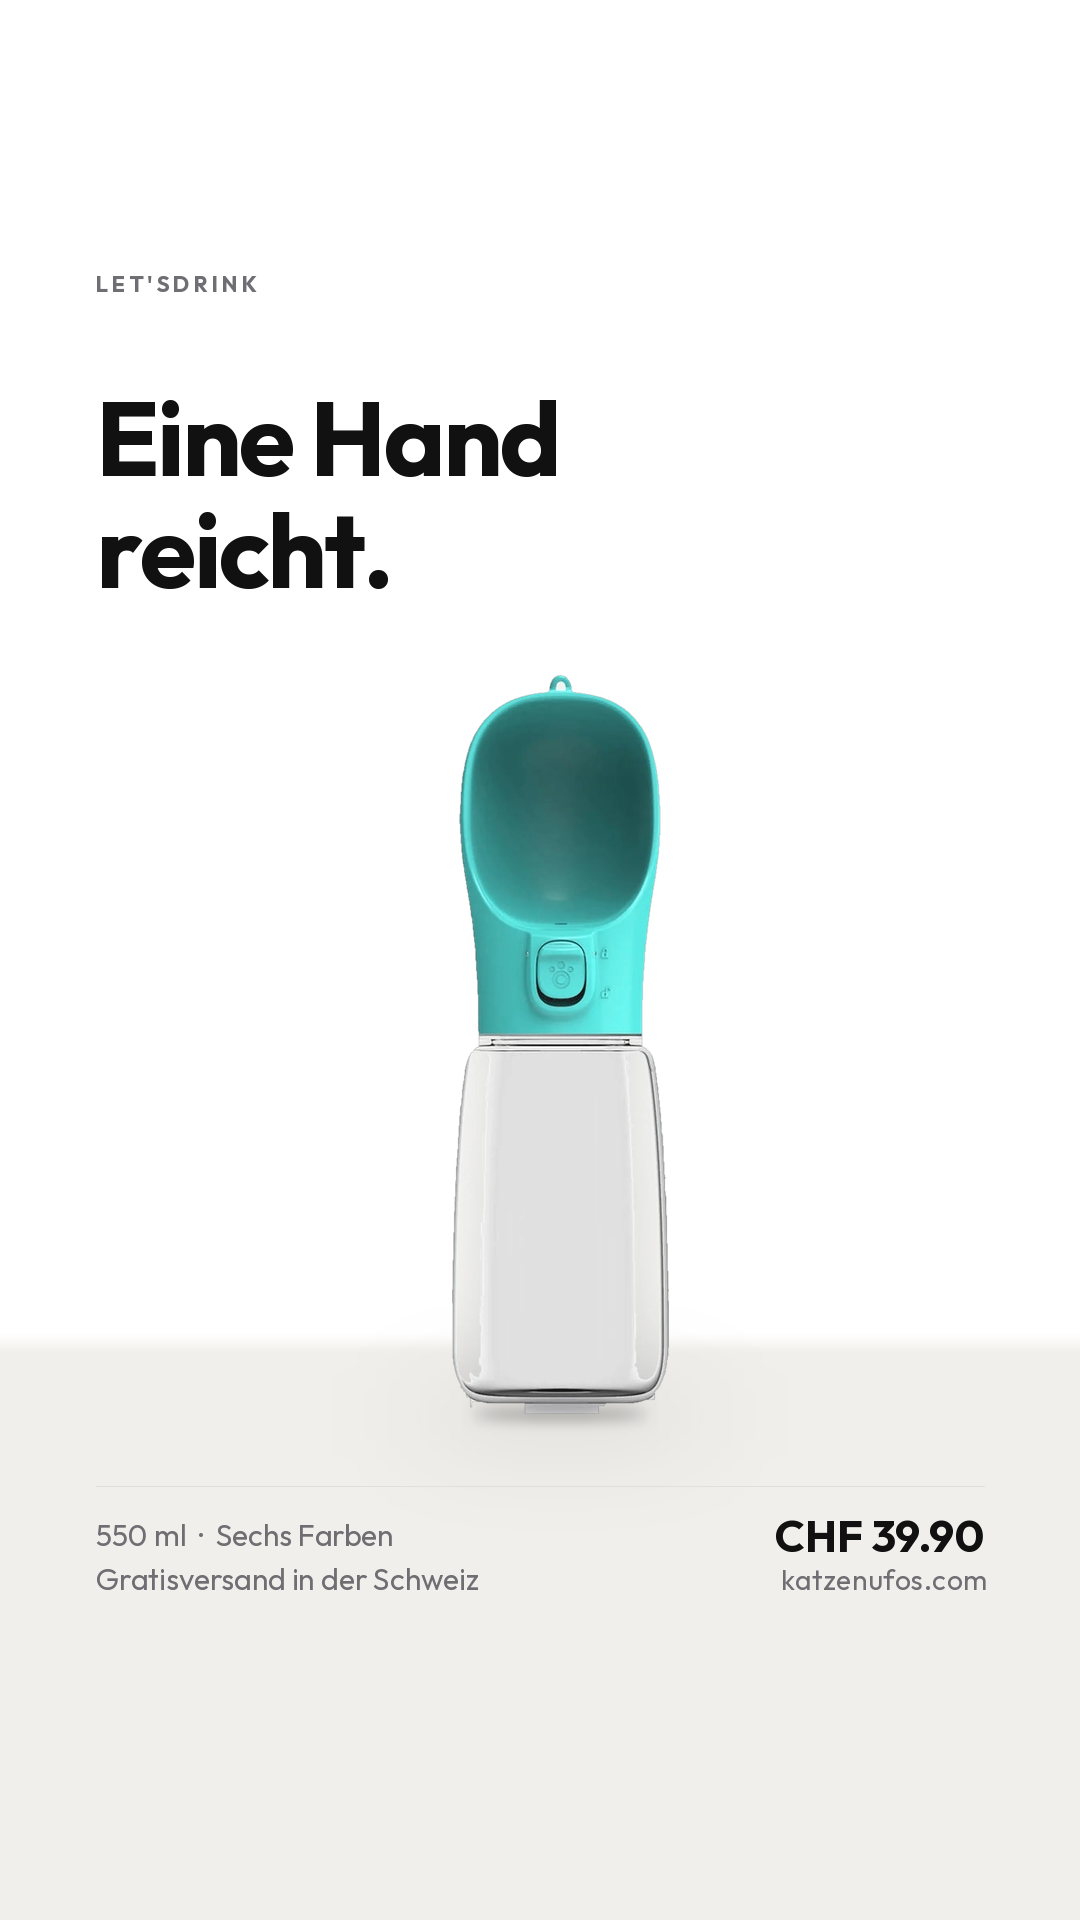
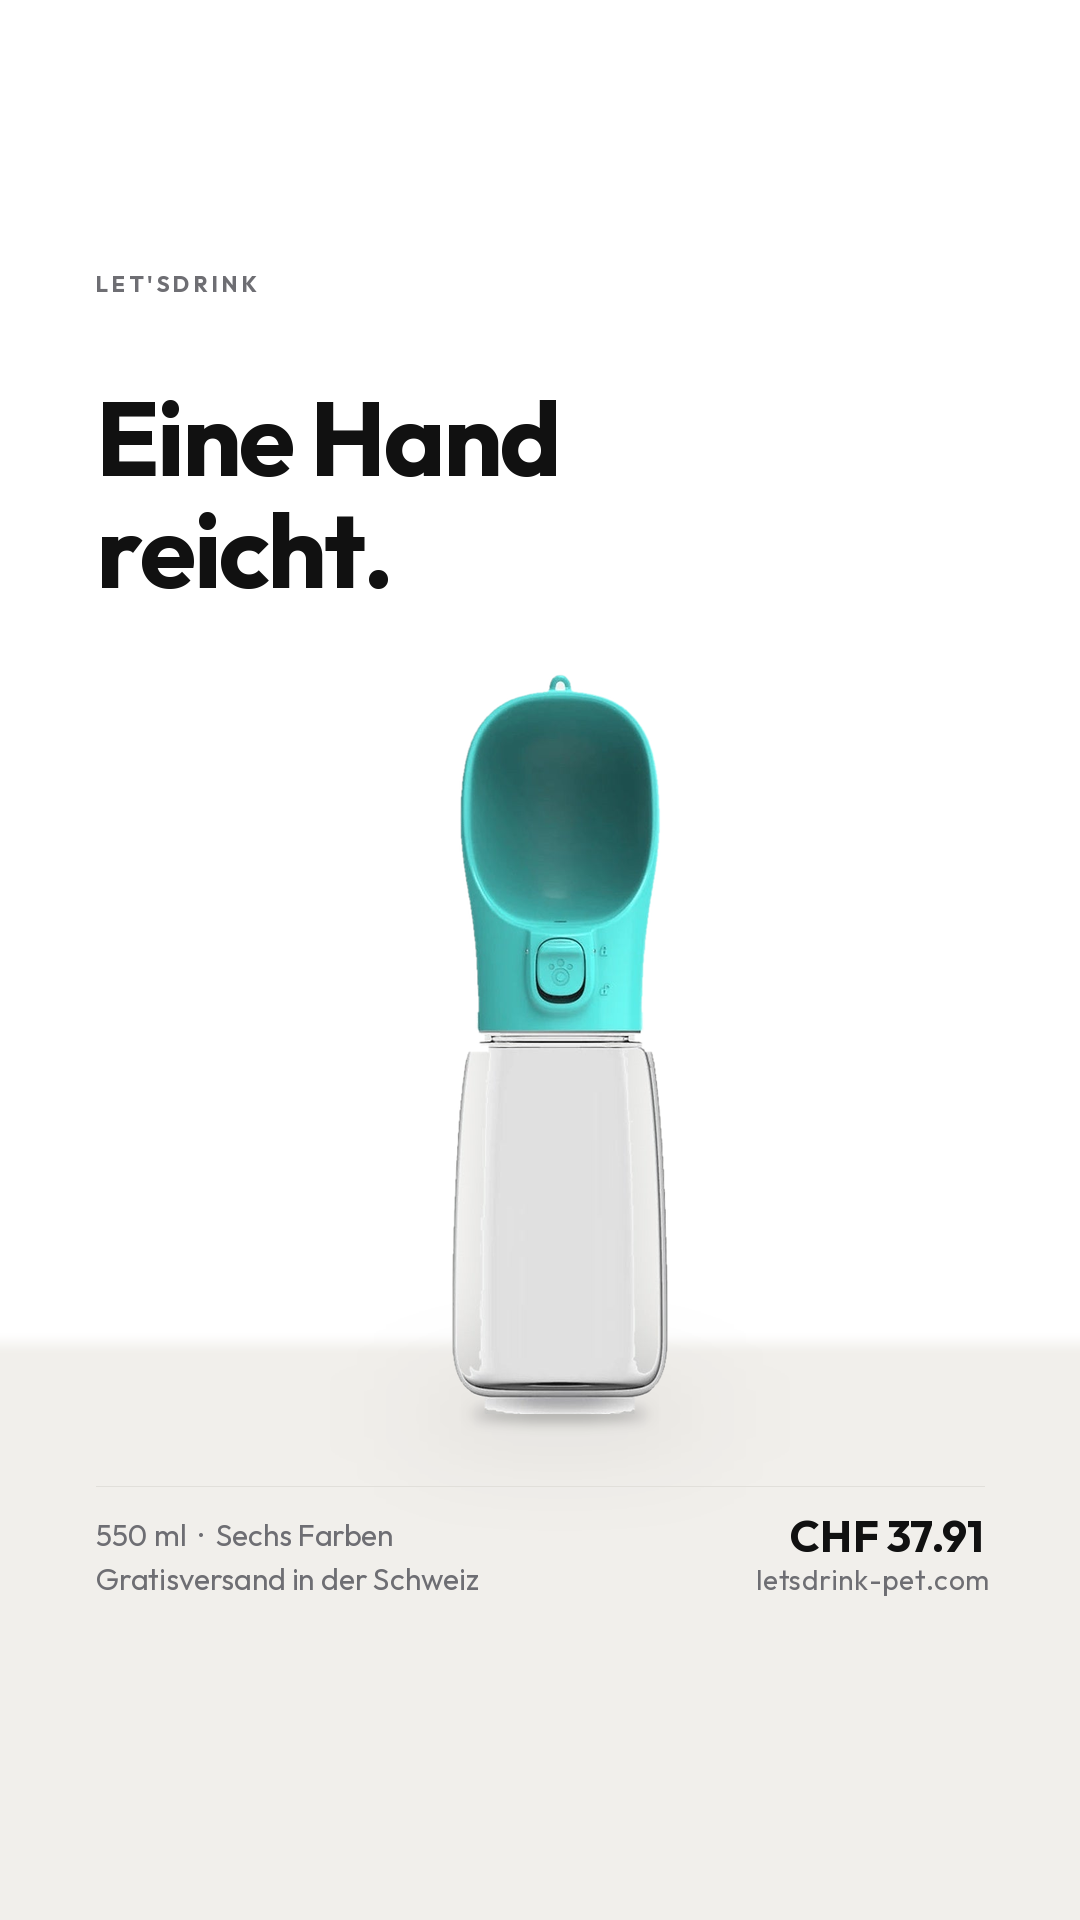
Studio-Werbebilder repariert: falscher Preis, falsche Domain, tote Pfade
Im Ordner shop/werbung lag eine komplette zweite Werbefamilie, die ich
nie benutzt habe - fuenf Motive in drei Formaten, gebaut aus den echten
Produktfreistellern. Drei Fehler darin:

1. 'CHF 39.90' - das ist der Katalogpreis. Zahlbar sind CHF 37.91
   durch den automatischen Rabatt. Die Preisbekanntgabeverordnung will
   den Betrag, der wirklich faellig wird.
2. 'katzenufos.com' im Fuss - die Adresse des anderen Ladens.
3. Die Skripte zeigten auf ein Sitzungsverzeichnis, das laengst weg
   ist. Sie liefen dadurch scheinbar durch, schrieben aber ins Leere.
   Gemerkt, weil die Bilder nach dem ersten Neubau immer noch den
   alten Preis trugen. Jetzt Pfade relativ zur Datei.

Ausserdem: die Freisteller heissen im Ordner 'tuerkis.png', nicht
'a-flasche-tuerkis.webp', und die Schriften liegen bei den Anzeigen.
Beides nachgezogen, alle fuenfzehn Bilder neu gebaut und geprueft.

Claude-Session: https://claude.ai/code/session_01VSwRRNMuiMW9jhpUvJvs51

diff --git a/shop/werbung/b_farben.py b/shop/werbung/b_farben.py
@@ -31,8 +31,8 @@ def quadrat():
     zeile(img, m, W - m, boden_y=800, hoehe=430, label_f=font(17, True))
 
     linie(img, m, H - m - 62, W - m)
-    text(img, (m, H - m - 33), "katzenufos.com", font(24), MUTED, track=0.6)
-    text(img, (W - m, H - m - 38), "CHF 39.90", font(30, True), TEXT, anchor="rs")
+    text(img, (m, H - m - 33), "letsdrink-pet.com", font(24), MUTED, track=0.6)
+    text(img, (W - m, H - m - 38), "CHF 37.91", font(30, True), TEXT, anchor="rs")
     speichern(img, "B-farben_1080x1080.png")
 
 
@@ -51,8 +51,8 @@ def story():
     linie(img, m + 20, 1430, W - m - 20)
     text(img, (m + 20, 1462), "Gratisversand in der Schweiz", font(28), MUTED)
     text(img, (m + 20, 1506), "14 Tage Rückgabe", font(28), MUTED)
-    text(img, (m + 20, 1550), "katzenufos.com", font(28), MUTED, track=0.6)
-    text(img, (W - m - 20, 1456), "CHF 39.90", font(46, True), TEXT, anchor="rs")
+    text(img, (m + 20, 1550), "letsdrink-pet.com", font(28), MUTED, track=0.6)
+    text(img, (W - m - 20, 1456), "CHF 37.91", font(46, True), TEXT, anchor="rs")
     speichern(img, "B-farben_1080x1920.png")
 
 
@@ -66,9 +66,9 @@ def link():
     text(img, (m, 330), "550 ml", font(25), MUTED)
 
     linie(img, m, 402, 356)
-    text_ink(img, m, 428, "CHF 39.90", font(32, True), TEXT, track=-0.7)
+    text_ink(img, m, 428, "CHF 37.91", font(32, True), TEXT, track=-0.7)
     text(img, (m, 484), "Gratisversand in der Schweiz", font(22), MUTED)
-    text(img, (m, 518), "katzenufos.com", font(22), MUTED, track=0.6)
+    text(img, (m, 518), "letsdrink-pet.com", font(22), MUTED, track=0.6)
 
     zeile(img, 420, W - m, boden_y=456, hoehe=330, label_f=font(15, True),
           label_dy=40)

diff --git a/shop/werbung/e_fakten.py b/shop/werbung/e_fakten.py
@@ -31,8 +31,8 @@ def quadrat():
     text(img, (m, 190), "Auf einen Blick.", font(60, True), TEXT, track=-1.5)
 
     ende = liste(img, m, 340, 566, font(27), zeile_h=70, pad=21)
-    text_ink(img, m, ende + 54, "CHF 39.90", font(54, True), TEXT, track=-1.1)
-    text(img, (m, ende + 132), "katzenufos.com", font(24), MUTED, track=0.6)
+    text_ink(img, m, ende + 54, "CHF 37.91", font(54, True), TEXT, track=-1.1)
+    text(img, (m, ende + 132), "letsdrink-pet.com", font(24), MUTED, track=0.6)
     speichern(img, "E-fakten_1080x1080.png")
 
 
@@ -46,8 +46,8 @@ def story():
     text(img, (m, 288), "LET'SDRINK", font(22, True), MUTED, track=3.8)
     ende = liste(img, m, 1094, W - 2 * m, font(31), zeile_h=80, pad=24)
 
-    text_ink(img, m, ende + 58, "CHF 39.90", font(66, True), TEXT, track=-1.5)
-    text(img, (W - m, ende + 74), "katzenufos.com", font(28), MUTED,
+    text_ink(img, m, ende + 58, "CHF 37.91", font(66, True), TEXT, track=-1.5)
+    text(img, (W - m, ende + 74), "letsdrink-pet.com", font(28), MUTED,
          track=0.6, anchor="rs")
     speichern(img, "E-fakten_1080x1920.png")
 
@@ -63,8 +63,8 @@ def link():
     text(img, (m, 116), "Auf einen Blick.", font(44, True), TEXT, track=-1.1)
 
     ende = liste(img, m, 208, 600, font(24), zeile_h=56, pad=16)
-    text_ink(img, m, ende + 34, "CHF 39.90", font(38, True), TEXT, track=-0.8)
-    text(img, (m + 296, ende + 44), "katzenufos.com", font(23), MUTED, track=0.6)
+    text_ink(img, m, ende + 34, "CHF 37.91", font(38, True), TEXT, track=-0.8)
+    text(img, (m + 296, ende + 44), "letsdrink-pet.com", font(23), MUTED, track=0.6)
     speichern(img, "E-fakten_1200x628.png")
 
 

diff --git a/shop/werbung/lib_studio.py b/shop/werbung/lib_studio.py
@@ -6,9 +6,18 @@ Kein erfundener Inhalt: nur echte Freisteller + freigegebene Aussagen.
 import os
 from PIL import Image, ImageDraw, ImageFont, ImageFilter
 
-SRC = "/tmp/claude-0/-home-user-Nate/2d96a9a6-93ca-5da3-99c5-55dbdd35f6e9/scratchpad/amber/hoch"
-OUT = "/tmp/claude-0/-home-user-Nate/2d96a9a6-93ca-5da3-99c5-55dbdd35f6e9/scratchpad/werbung"
-FDIR = os.path.join(OUT, "_fonts")
+# Pfade relativ zu dieser Datei. Vorher standen hier absolute Pfade in
+# ein Sitzungsverzeichnis, das laengst weg ist - die Skripte liefen
+# dadurch scheinbar durch, schrieben aber ins Leere. Am 19.8.2026
+# gemerkt, als die Bilder nach dem Neubau immer noch den alten Preis
+# und die falsche Adresse trugen.
+HIER = os.path.dirname(os.path.abspath(__file__))
+SRC  = os.path.join(HIER, "frei-sauber")
+OUT  = HIER
+# Die Schriften liegen bei den Anzeigen, nicht hier - im Ordner
+# "schriften" stehen nur die beiden Webfonts des Shops.
+FDIR = os.path.abspath(os.path.join(HIER, "..", "..",
+                                    "marketing", "anzeigen", "quelle"))
 
 # --- Palette -----------------------------------------------------------
 WEISS   = (255, 255, 255)
@@ -33,7 +42,10 @@ def font(size, bold=False):
 
 
 def flasche(name="tuerkis"):
-    return Image.open(os.path.join(SRC, "a-flasche-%s.webp" % name)).convert("RGBA")
+    # Die Freisteller heissen im Ordner schlicht "tuerkis.png". Frueher
+    # stand hier "a-flasche-%s.webp" aus einem Sitzungsverzeichnis, das
+    # es nicht mehr gibt.
+    return Image.open(os.path.join(SRC, "%s.png" % name)).convert("RGBA")
 
 
 # --- Hintergrund -------------------------------------------------------

diff --git a/shop/werbung/c_napf.py b/shop/werbung/c_napf.py
@@ -33,8 +33,8 @@ def quadrat():
     linie(img, m, round(fuge), rechts)
     text(img, (m, fuge + 24), "550 ml  ·  Sechs Farben", font(26), MUTED)
 
-    text_ink(img, m, 916, "CHF 39.90", font(38, True), TEXT, track=-0.8)
-    text(img, (m, 986), "katzenufos.com", font(24), MUTED, track=0.6)
+    text_ink(img, m, 916, "CHF 37.91", font(38, True), TEXT, track=-0.8)
+    text(img, (m, 986), "letsdrink-pet.com", font(24), MUTED, track=0.6)
     speichern(img, "C-napf_1080x1080.png")
 
 
@@ -58,8 +58,8 @@ def story():
     text(img, (m, fuge + 26), "550 ml", font(30), MUTED)
     text(img, (m, fuge + 70), "Sechs Farben", font(30), MUTED)
 
-    text_ink(img, m, 1436, "CHF 39.90", font(56, True), TEXT, track=-1.2)
-    text(img, (m, 1540), "katzenufos.com", font(28), MUTED, track=0.6)
+    text_ink(img, m, 1436, "CHF 37.91", font(56, True), TEXT, track=-1.2)
+    text(img, (m, 1540), "letsdrink-pet.com", font(28), MUTED, track=0.6)
     speichern(img, "C-napf_1080x1920.png")
 
 
@@ -82,8 +82,8 @@ def link():
     linie(img, m, fuge_ziel, round(cx - im.width / 2) - 26)
     text(img, (m, fuge_ziel + 22), "550 ml  ·  Sechs Farben", font(24), MUTED)
 
-    text_ink(img, m, H - m - 44, "CHF 39.90", font(32, True), TEXT, track=-0.7)
-    text(img, (m + 230, H - m - 40), "katzenufos.com", font(23), MUTED, track=0.6)
+    text_ink(img, m, H - m - 44, "CHF 37.91", font(32, True), TEXT, track=-0.7)
+    text(img, (m + 230, H - m - 40), "letsdrink-pet.com", font(23), MUTED, track=0.6)
     speichern(img, "C-napf_1200x628.png")
 
 

diff --git a/shop/werbung/a_hand.py b/shop/werbung/a_hand.py
@@ -19,8 +19,8 @@ def quadrat():
     text(img, (m, y + 36), SUB, font(29), MUTED)
 
     linie(img, m, H - m - 64, W - m)
-    text(img, (m, H - m - 34), "katzenufos.com", font(24), MUTED, track=0.6)
-    text(img, (W - m, H - m - 39), "CHF 39.90", font(30, True), TEXT, anchor="rs")
+    text(img, (m, H - m - 34), "letsdrink-pet.com", font(24), MUTED, track=0.6)
+    text(img, (W - m, H - m - 39), "CHF 37.91", font(30, True), TEXT, anchor="rs")
     speichern(img, "A-hand_1080x1080.png")
 
 
@@ -38,8 +38,8 @@ def story():
     linie(img, m, 1486, W - m)
     text(img, (m, 1516), SUB, font(30), MUTED)
     text(img, (m, 1560), "Gratisversand in der Schweiz", font(30), MUTED)
-    text(img, (W - m, 1508), "CHF 39.90", font(44, True), TEXT, anchor="rs")
-    text(img, (W - m, 1562), "katzenufos.com", font(28), MUTED,
+    text(img, (W - m, 1508), "CHF 37.91", font(44, True), TEXT, anchor="rs")
+    text(img, (W - m, 1562), "letsdrink-pet.com", font(28), MUTED,
          track=0.6, anchor="rs")
     speichern(img, "A-hand_1080x1920.png")
 
@@ -57,8 +57,8 @@ def link():
     text(img, (m, y + 26), SUB, font(25), MUTED)
 
     linie(img, m, H - m - 56, 640)
-    text(img, (m, H - m - 32), "katzenufos.com", font(23), MUTED, track=0.6)
-    text(img, (640, H - m - 37), "CHF 39.90", font(29, True), TEXT, anchor="rs")
+    text(img, (m, H - m - 32), "letsdrink-pet.com", font(23), MUTED, track=0.6)
+    text(img, (640, H - m - 37), "CHF 37.91", font(29, True), TEXT, anchor="rs")
     speichern(img, "A-hand_1200x628.png")
 
 

diff --git a/shop/werbung/werbung.py b/shop/werbung/werbung.py
@@ -181,7 +181,7 @@ def motiv_knopf(fmt):
     else:
         fl = flasche("tuerkis", int(max(360, fussy - y - 70)))
         mit_schatten(im, fl, (B - fl.width) // 2, int(y) + 40)
-    d.text((rand, fussy), "550 ml · sechs Farben · CHF 39.90", font=fk, fill=t)
+    d.text((rand, fussy), "550 ml · sechs Farben · CHF 37.91", font=fk, fill=t)
     return im
 
 
@@ -235,7 +235,7 @@ def motiv_farben(fmt):
             x += b.width + luft
         oben += hoehe + 40
 
-    d.text((rand, fussy), "Jede 550 ml · jede CHF 39.90", font=fk, fill=t)
+    d.text((rand, fussy), "Jede 550 ml · jede CHF 37.91", font=fk, fill=t)
     return im
 
 
@@ -258,10 +258,10 @@ def motiv_preis(fmt):
     groesse = int(B * (0.125 if quer else 0.165))
     while groesse > 40:
         fp = titel(groesse, 800)
-        if d.textlength("CHF 39.90", font=fp) <= spalte:
+        if d.textlength("CHF 37.91", font=fp) <= spalte:
             break
         groesse -= 4
-    d.text((rand, y), "CHF 39.90", font=fp, fill=t)
+    d.text((rand, y), "CHF 37.91", font=fp, fill=t)
     y += fp.size * 1.06
 
     fs = satz(int(B * 0.035))

diff --git a/shop/werbung/d_volumen.py b/shop/werbung/d_volumen.py
@@ -22,9 +22,9 @@ def hochformat(W, H, m, *, hoehe, boden_y, regel_y, giant_h, giant_w,
              TEXT, track=-gs * 0.02)
 
     text(img, (m, foot_y), "Sechs Farben", font(foot_s), MUTED)
-    text(img, (m, foot_y + round(foot_s * 1.55)), "katzenufos.com",
+    text(img, (m, foot_y + round(foot_s * 1.55)), "letsdrink-pet.com",
          font(foot_s), MUTED, track=0.6)
-    text(img, (W - m, foot_y - round(price_s * 0.14)), "CHF 39.90",
+    text(img, (W - m, foot_y - round(price_s * 0.14)), "CHF 37.91",
          font(price_s, True), TEXT, anchor="rs")
     speichern(img, name)
 
@@ -44,8 +44,8 @@ def link():
     text_ink(img, sx, 268, "550 ml", font(gs, True), TEXT, track=-gs * 0.02)
 
     text(img, (sx, 424), "Sechs Farben", font(24), MUTED)
-    text_ink(img, sx, 476, "CHF 39.90", font(34, True), TEXT, track=-0.7)
-    text(img, (sx, 534), "katzenufos.com", font(23), MUTED, track=0.6)
+    text_ink(img, sx, 476, "CHF 37.91", font(34, True), TEXT, track=-0.7)
+    text(img, (sx, 534), "letsdrink-pet.com", font(23), MUTED, track=0.6)
     speichern(img, "D-volumen_1200x628.png")
 
 
